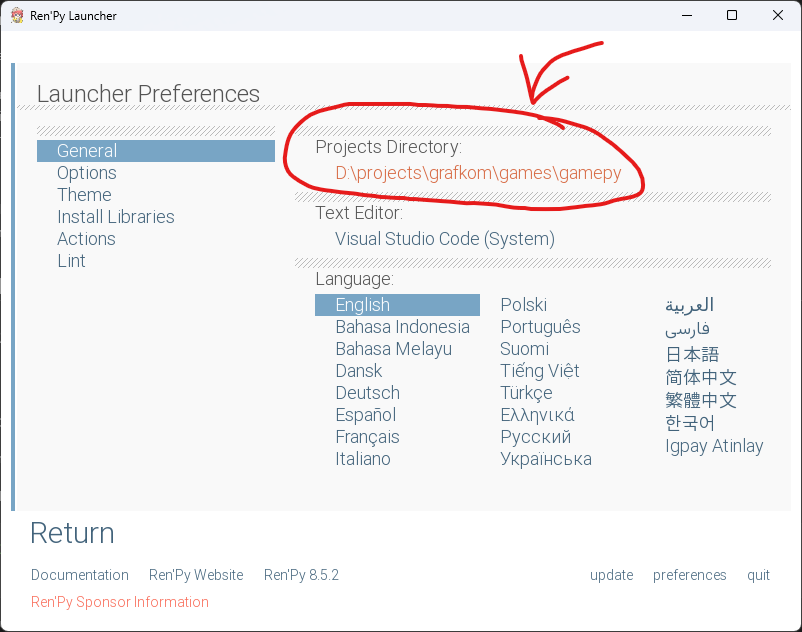
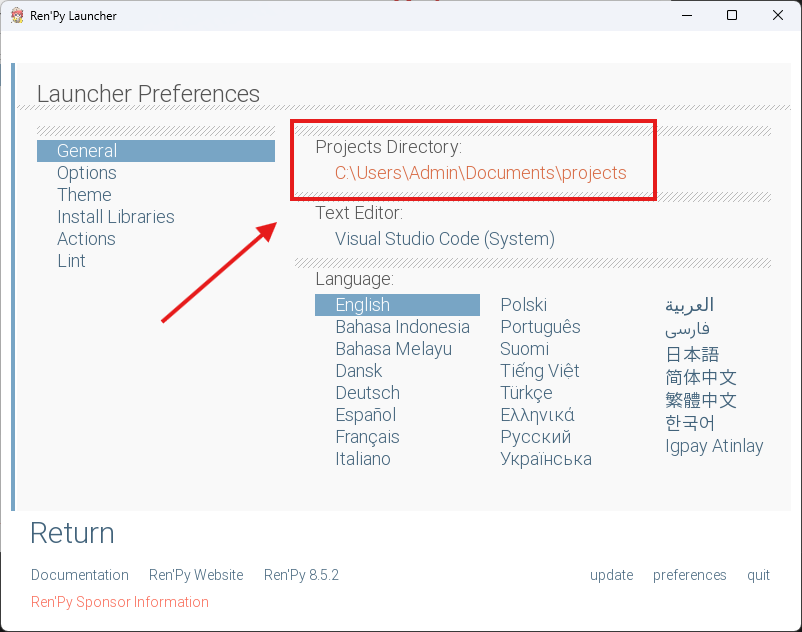
update docs

diff --git a/README.md b/README.md
@@ -19,7 +19,7 @@ Project ini adalah game visual novel berbasis Ren'Py. Dokumentasi ini menjelaska
 Sebelum mulai development atau menjalankan game, pastikan tools di bawah sudah terinstall:
 
 1. Git
-   - Wajib kalau project diambil dari GitHub (git clone)
+   - Download: https://git-scm.com/
 2. Ren'Py SDK
    - Download: https://www.renpy.org/latest.html
 3. Text editor / IDE
@@ -31,8 +31,29 @@ Urutan yang paling nyaman (disarankan): install Ren'Py dulu, lalu clone repo. Al
 
 ### 1) Install Ren'Py SDK
 
-1. Download Ren'Py SDK lalu install/extract.
-2. Jalankan Ren'Py Launcher.
+Link utama (halaman download terbaru): https://www.renpy.org/latest.html
+
+Pilih installer sesuai OS kamu (Ren'Py SDK 8.5.2):
+
+- Windows (7z self-extracting): https://www.renpy.org/dl/8.5.2/renpy-8.5.2-sdk.7z.exe
+- macOS (DMG): https://www.renpy.org/dl/8.5.2/renpy-8.5.2-sdk.dmg
+- Linux (tar.bz2): https://www.renpy.org/dl/8.5.2/renpy-8.5.2-sdk.tar.bz2
+
+Langkah instalasi:
+
+- Windows
+  1. Jalankan file `renpy-8.5.2-sdk.7z.exe`.
+  2. Pilih lokasi extract (misalnya `C:\Users\<kamu>\Documents\renpy-8.5.2-sdk`).
+  3. Buka folder hasil extract, lalu jalankan `renpy.exe` untuk membuka Ren'Py Launcher.
+
+- macOS
+  1. Buka file `.dmg`.
+  2. Drag folder Ren'Py ke `Applications` (atau folder lain yang kamu mau).
+  3. Jalankan Ren'Py untuk membuka Ren'Py Launcher.
+
+- Linux
+  1. Extract file `.tar.bz2` ke folder pilihan.
+  2. Masuk ke folder hasil extract, lalu jalankan `./renpy.sh` untuk membuka Ren'Py Launcher.
 
 ### 2) Clone repository (GitHub)
 
@@ -71,25 +92,44 @@ Catatan:
 
 1. Dari Ren'Py Launcher, klik **preferences**.
 
+<details>
+<summary>Lihat screenshot (preferences)</summary>
+
 ![Buka preferences](docs/images/01.png)
+
+</details>
 
 2. Di tab **General**, set **Projects Directory** ke folder yang berisi kumpulan project.
 
 - Jika project kamu berada di `Documents/projects/please_remember_me`, maka Projects Directory harus `Documents/projects`.
 
+<details>
+<summary>Lihat screenshots (Projects Directory)</summary>
+
 ![Set Projects Directory](docs/images/0201.png)
 ![Set Projects Directory](docs/images/0202.png)
-![Set Projects Directory](docs/images/0203.png)
+
+</details>
 
 3. Masih di tab **General**, pada **Text Editor** klik lalu pilih **Visual Studio Code (System)** agar Ren'Py membuka VS Code yang sudah terinstall untuk edit .rpy.
+
+<details>
+<summary>Lihat screenshots (Text Editor)</summary>
 
 ![Pilih VS Code (System)](docs/images/0301.png)
 ![Pilih VS Code (System)](docs/images/0302.png)
 
+</details>
+
 4. Klik **Return** untuk kembali ke menu utama.
 5. Jika project belum muncul di daftar kiri, klik **refresh**.
 
+<details>
+<summary>Lihat screenshot (refresh daftar project)</summary>
+
 ![Refresh daftar project](docs/images/04.png)
+
+</details>
 
 6. Setelah project muncul, pilih project lalu klik **Launch Project**.
 
